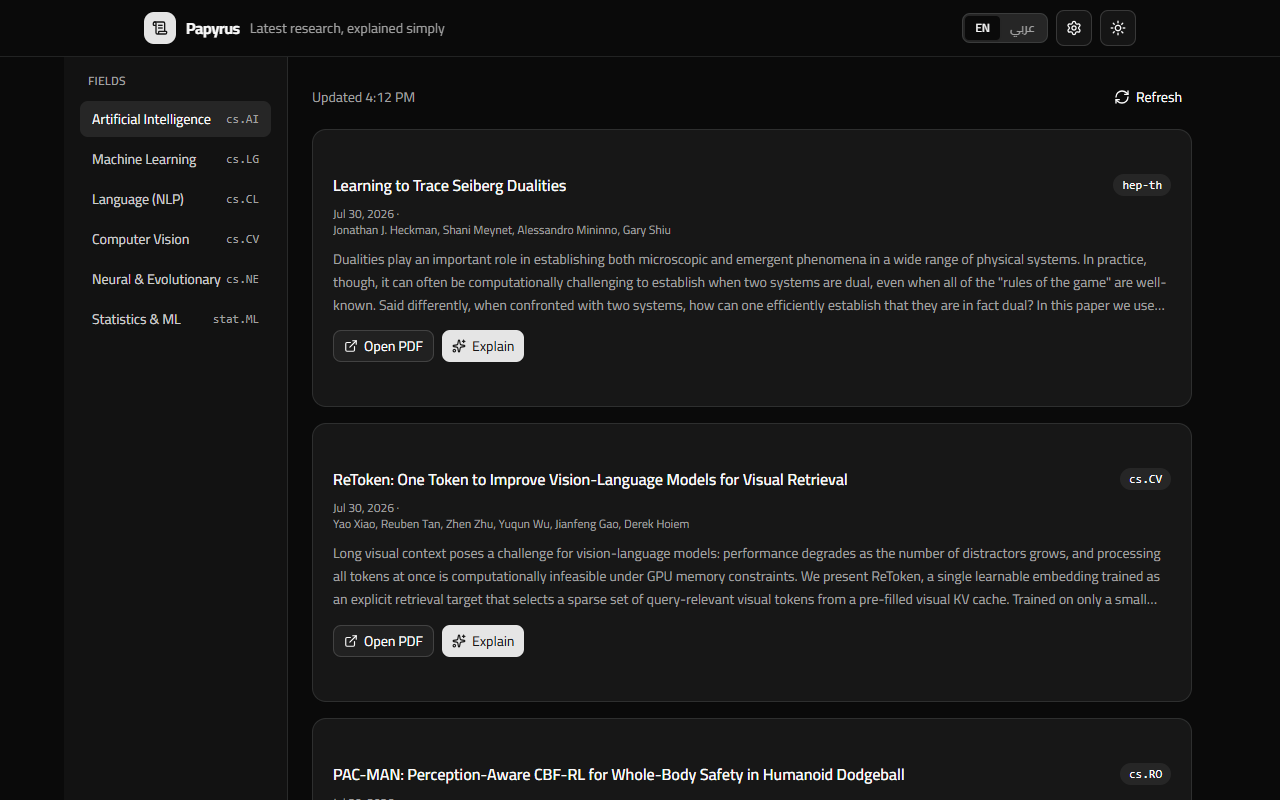
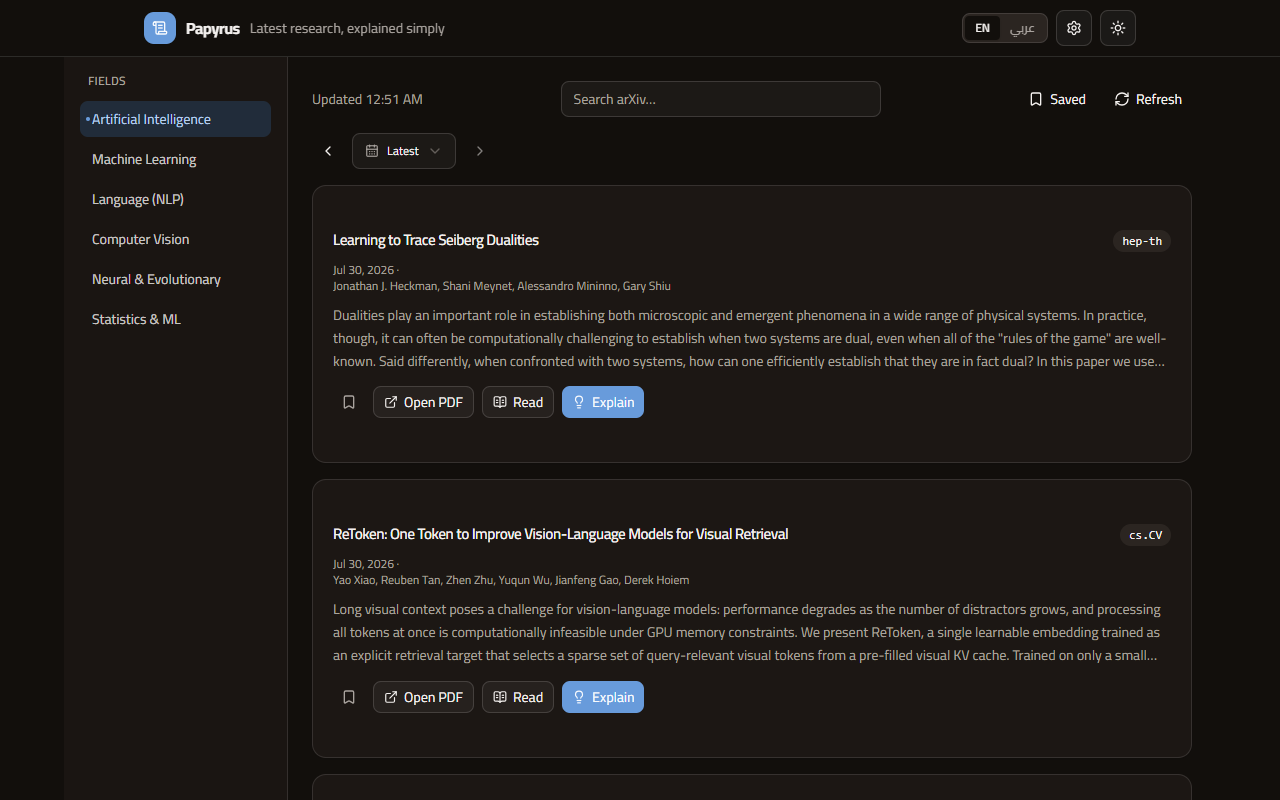
docs: refresh README for the reader feature (screenshots, features, usage, security notes)
No changelog row added: this is a documentation refresh only, no behavior
changed; the reader feature itself already has its changelog rows.

diff --git a/README.md b/README.md
@@ -24,6 +24,10 @@ react-i18next. Backend logic is written in Rust.
 | Browse by day       | Step back through any past day (arXiv date-range queries), or pick a day from the collected history list                                                      |
 | Daily history       | The app automatically collects each day's papers for the current field (last 14 days on first launch, 30 days kept), so past days are always available        |
 | AI explanations     | Explains any paper in 200 to 300 plain words, streamed live, in the language of the interface (English or Arabic)                                             |
+| Markdown answers    | AI answers render as real markdown: headings, lists, tables, math equations (KaTeX) and mermaid diagrams, styled to the app and RTL-aware                     |
+| In-app PDF reader   | Open any paper's PDF inside the app: page navigation, zoom, find-in-page search with highlights, and text selection. PDFs are cached on disk                  |
+| Whole-paper mentor  | The mentor reads the paper section by section and explains each one (press Continue between sections), then gives a final synthesis of the whole paper        |
+| Paper chat          | Ask anything about the paper in the Ask tab. Answers are grounded in the paper, and any passage you select in the PDF becomes context for your question       |
 | Your providers      | Works with OpenAI, OpenRouter, DeepSeek, Groq, Mistral, Ollama (local) or any custom base URL and model name                                                  |
 | Privacy first       | API keys live in the OS keychain (Windows Credential Manager / macOS Keychain). Paper fetching and AI calls happen in the Rust backend, never in the web page |
 | Bilingual           | Instant English to Arabic switching, full RTL layout, Cairo font                                                                                              |
@@ -36,9 +40,9 @@ react-i18next. Backend logic is written in Rust.
 | ----------------------------------------------- | ---------------------------------------------------- |
 | ![Papers](docs/screenshots/papers-en-light.png) | ![Explanation](docs/screenshots/explain-ar-dark.png) |
 
-| Settings (Arabic)                                   | Dark mode (English)                          |
-| --------------------------------------------------- | -------------------------------------------- |
-| ![Settings](docs/screenshots/settings-ar-light.png) | ![Dark](docs/screenshots/papers-en-dark.png) |
+| Settings (Arabic)                                   | Reader (English)                                |
+| --------------------------------------------------- | ----------------------------------------------- |
+| ![Settings](docs/screenshots/settings-ar-light.png) | ![Reader](docs/screenshots/reader-en-light.png) |
 
 ## How it works
 
@@ -95,14 +99,25 @@ only ever knows whether a key exists, never its value.
 3. **Browse papers.** Pick a field from the sidebar. The 20 newest papers
    appear, newest first. Use the search box to look for any topic. Press
    the refresh button to check for new uploads.
-4. **Read and save.** Click a paper title area to open the abstract. The
-   PDF button opens the paper on arXiv. The bookmark button saves it to
-   your favorites, and the "Saved" toggle shows only saved papers.
+4. **Read a paper.** Press "Read" to open the paper's PDF inside the app:
+   flip pages, zoom, and search inside the PDF. The PDF button next to it
+   still opens the paper on arXiv in your browser. The bookmark button
+   saves it to your favorites, and the "Saved" toggle shows only saved
+   papers.
 5. **Explain a paper.** Press "Explain". The explanation streams in,
-   written in the current interface language. Use "Stop" to cancel or
-   "Regenerate" to ask again. You can switch providers from inside the
-   explanation panel.
-6. **Switch language and theme.** Use the toggles in the top bar. The
+   written in the current interface language, using the research-mentor
+   style (every technical term explained, no AI-sounding text). Use
+   "Stop" to cancel or "Regenerate" to ask again. You can switch
+   providers from inside the explanation panel.
+6. **Walk through a whole paper.** Inside the reader, press "Explain the
+   whole paper". The mentor explains the paper section by section; press
+   "Continue" when you are ready for the next section, and it finishes
+   with a final summary of the whole paper.
+7. **Ask questions about a paper.** Open the "Ask" tab inside the reader
+   and type any question. The answer is grounded in the paper's text.
+   Select a passage in the PDF first and the question is answered with
+   that passage as context. Your chat history is kept per paper.
+8. **Switch language and theme.** Use the toggles in the top bar. The
    whole interface flips to Arabic with full RTL, and explanations are
    then written in Arabic. Your choice is remembered.
 
@@ -127,18 +142,35 @@ can browse any past day at any time.
 
 ## How explanations work
 
-When you press Explain, the backend sends the paper's title and abstract
-to your provider with a system prompt that asks for:
+When you press Explain, the backend reads your key from the OS keychain,
+sends the paper's title and abstract to your provider with a system prompt
+that turns the model into a **research mentor**, not a summarizer. The
+mentor is asked to:
 
-1. What the paper is about (the main idea)
-2. How it works (the method in plain terms)
-3. The key results
-4. Why it matters
+1. Explain what the paper is about and how it works in plain terms
+2. Explain every technical term the first time it appears
+3. Use analogies and simple, natural language (no AI-sounding cliches)
+4. Point out the paper's assumptions and weaknesses
+5. Never invent details that are not in the paper
 
-The answer is 200 to 300 words, in short paragraphs, with no tables, in
-the language of the interface (English or Arabic). The text appears
-progressively as the provider generates it. You can stop or regenerate at
-any time.
+The answer is 200 to 300 words, in short paragraphs, in the language of
+the interface (English or Arabic), and it renders as real markdown:
+headings, lists, tables, math equations and even diagrams. The text
+appears progressively as the provider generates it. You can stop or
+regenerate at any time.
+
+**Whole-paper walkthroughs** work the same way, but the mentor receives
+the actual text of the paper, section by section. The reader extracts the
+text from the PDF, splits it into sections, and the mentor explains each
+section using a full teaching structure before you press Continue. At the
+end it produces a final synthesis: the five most important ideas, the
+three biggest limitations, how the paper differs from earlier work, what
+to learn next, and five questions to check understanding.
+
+**The Ask tab** is a grounded chat: your question (plus any passage you
+selected in the PDF) is sent together with the relevant section of the
+paper, and the mentor answers only from that context, honestly saying
+when the answer is not in the paper.
 
 The explanation uses your provider and your model, so the cost (if any) is
 exactly what your provider charges for the tokens used, typically a small
@@ -168,6 +200,9 @@ Papyrus was built in phases, each verified before moving on:
    for Windows and macOS, keyword search, favorites, and two design specs
    for future features. Every plan landed as its own commit with tests.
    The git history reads as a story of the project.
+6. **The reader.** An in-app PDF reader (pdf.js), a whole-paper mentor
+   walkthrough that explains the paper section by section, and a grounded
+   chat where selections in the PDF become answer context.
 
 ## What changed since the first version
 
@@ -262,15 +297,17 @@ installers for Windows, and the MIT license.
 ```
 src/                React frontend
   components/         shared UI components (shadcn/ui)
-  features/           papers (list, card, explain) and settings
+  components/markdown  markdown renderer (tables, KaTeX, mermaid)
+  components/pdf-viewer embedded pdf.js reader
+  features/           papers (list, card, explain) and reader (viewer + AI panel)
   hooks/              theme hook
   i18n/               English and Arabic strings
-  lib/                types, arXiv client, AI client, utilities
-  stores/             Zustand stores (papers, settings, explanation, ui, favorites)
+  lib/                types, arXiv client, AI client, PDF bytes, text splitting
+  stores/             Zustand stores (papers, settings, explanation, reader, ui, favorites)
 src-tauri/          Rust backend
-  src/                papers.rs (arXiv), ai.rs (AI streaming + keychain)
+  src/                papers.rs (arXiv), ai.rs (AI streaming + keychain), pdf.rs (PDF fetch + cache)
   capabilities/       webview permissions (least privilege)
-dev/                Development-only tools (mock AI server, screenshot capture)
+dev/                Development-only tools (mock AI server, screenshot capture, sample PDF)
 docs/               Screenshots and design specs
 plans/              The 28 improvement plans that shaped the final version
 ```
@@ -340,18 +377,23 @@ cargo test --manifest-path src-tauri/Cargo.toml live_fetch_from_arxiv -- --ignor
   to the web view at all.
 - The webview ships without a Content-Security-Policy (`"csp": null` in
   `src-tauri/tauri.conf.json`) by design. The UI loads only local bundled
-  assets, AI responses are rendered as plain text (never HTML), and users
-  configure arbitrary provider base URLs, which a static `connect-src`
-  whitelist cannot express. Revisit this if HTML rendering (for example
-  markdown) is ever added.
+  assets, and users configure arbitrary provider base URLs, which a
+  static `connect-src` whitelist cannot express.
+- AI responses are rendered as markdown, not raw HTML: the renderer
+  escapes any HTML tags the model produces (no raw-HTML passthrough),
+  mermaid diagrams run in strict security mode, and links open through
+  the operating system's browser. PDF text is only ever shown inside
+  the pdf.js viewer and sent to the AI backend; it is never injected
+  into the page as HTML.
 - Remote provider URLs must use HTTPS. Plain HTTP is only accepted for
   local servers such as Ollama, so keys are never sent in clear text.
 - Provider error messages are redacted: key-shaped strings are masked
   before they reach the interface.
 - arXiv's rate limit (about one request per 3 seconds) is enforced in the
   Rust fetcher.
-- Paper content and AI responses are rendered as plain text, so no HTML
-  sanitizer is needed.
+- Paper content and AI responses are handled as untrusted data: markdown
+  rendering escapes HTML, and PDF downloads are capped in size and
+  rendered sandboxed in the viewer.
 
 ## Roadmap
 
